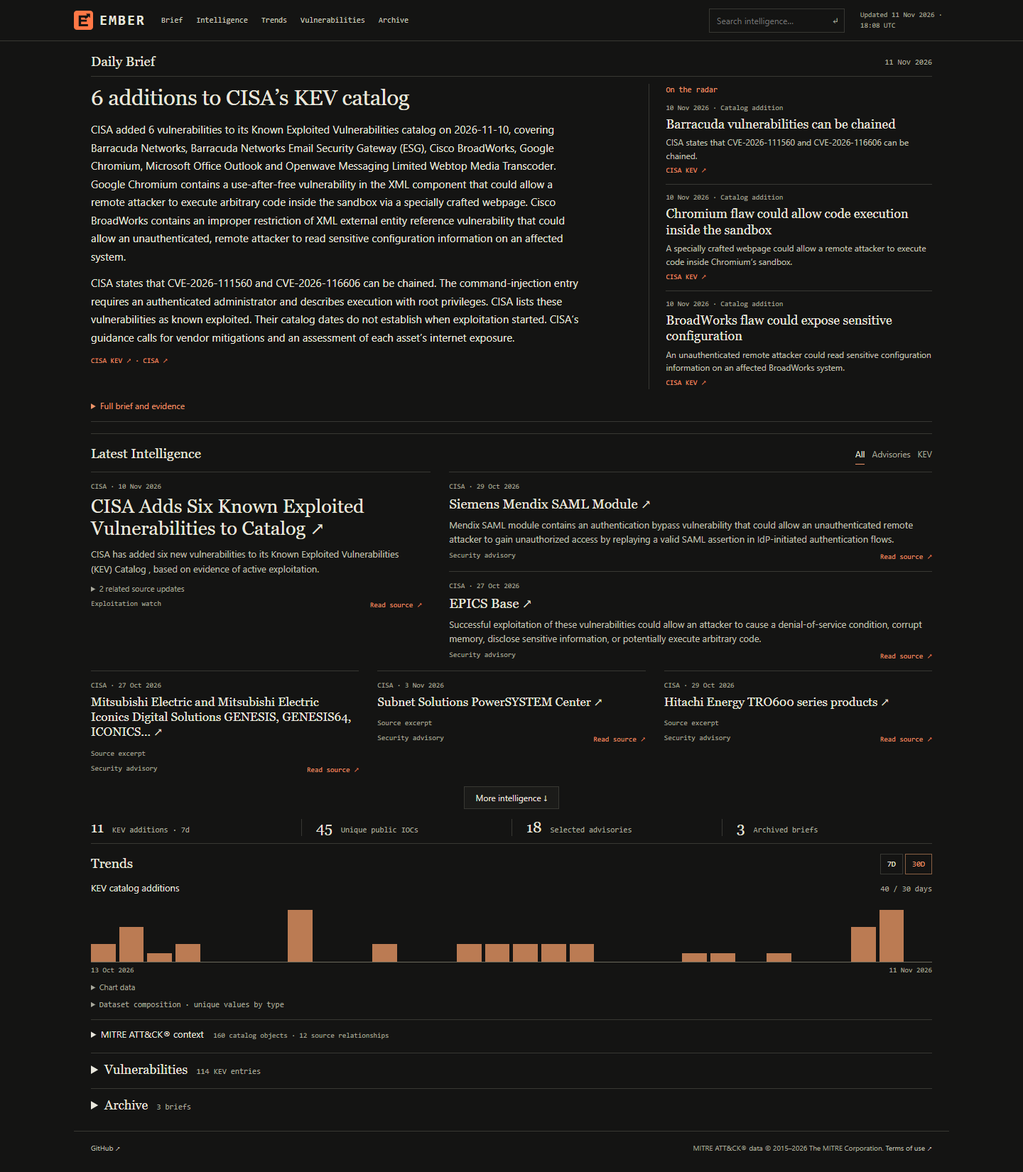
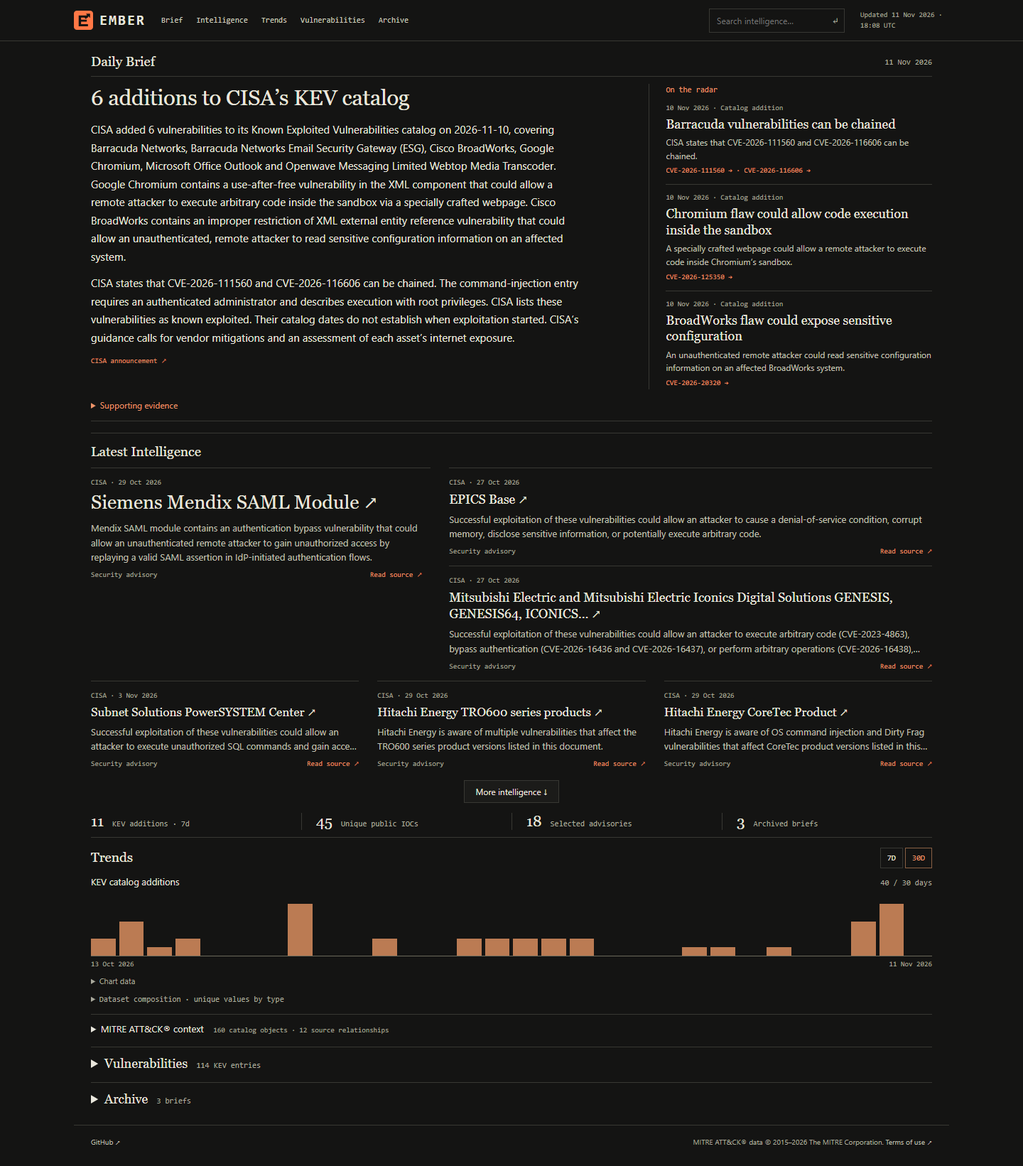
Simplify supporting evidence, reader links, and homepage story selection

diff --git a/website/app.js b/website/app.js
@@ -1,4 +1,4 @@
-import {metrics, dailyKev, kindCounts, matches, groupStories, briefDigest, editorialStories} from './analytics.js';
+import {metrics, dailyKev, kindCounts, matches, groupStories, briefDigest, editionEvidence, evidenceGroups, readerTarget, isRawSource, additionalStories, usefulExcerpt} from './analytics.js';
 
 const main = document.querySelector('main');
 const dialog = document.querySelector('dialog');
@@ -11,11 +11,11 @@ const time = value => value ? `${date(value)} · ${new Date(value).toLocaleTimeS
 const num = value => Number(value).toLocaleString('en-US');
 const shortHeadline = title => title.length>105?title.slice(0,102).replace(/\s+\S*$/,'')+'…':title;
 const link = (url,text,cls='') => {
-  try {const p=new URL(url);if(p.protocol!=='https:'||!['www.cisa.gov','www.circl.lu','attack.mitre.org'].includes(p.hostname)||p.username||p.password)return e(text);}
+  try {const p=new URL(url);if(p.protocol!=='https:'||!['www.cisa.gov','www.circl.lu','attack.mitre.org'].includes(p.hostname)||p.username||p.password||!['','443'].includes(p.port))return e(text);}
   catch {return e(text);}
   return `<a class="${e(cls)}" href="${e(url)}" target="_blank" rel="noopener noreferrer">${e(text)} ↗</a>`;
 };
-let data, period=30, newsFilter='all', newsLimit=6, cveQuery='', cvePage=0, catalogQuery='', catalogType='all', catalogLimit=12;
+let data, period=30, newsLimit=6, cveQuery='', cvePage=0, catalogQuery='', catalogType='all', catalogLimit=12;
 const empty = text => `<p class="empty">${e(text)}</p>`;
 
 function warnings() {
@@ -30,8 +30,7 @@ const freshness = {'catalog-added':'Catalog addition','newly-published':'New pub
 const prose = clauses => (clauses||[]).map(c=>c.text).join(' ');
 function topicMarkup(topic,technical=false) {
   const rows=topic.records;
-  const sources=[...new Map(rows.map(r=>[r.source_url,r])).values()];
-  return `<article class="${technical?'report-topic':'finding'}"><div class="source-line">${e(freshness[topic.freshness])}</div><h3>${e(topic.headline)}</h3><p>${e(prose(topic.summary)||rows[0]?.excerpt)}</p>${topic.why_it_matters?`<p class="significance">${e(topic.why_it_matters.text)}</p>`:''}<div class="topic-sources">${sources.map(r=>link(r.source_url,names[r.source])).join(' · ')}</div>${technical?`<details class="topic-evidence"><summary>Technical evidence · ${rows.length}</summary>${rows.map(row=>`<article class="evidence"><div class="indicator">${e(row.kind)} · ${e(row.value)}</div><p>${e(row.excerpt)}</p><dl><dt>${row.source==='cisa-kev'?'Catalog added':'Source published'}</dt><dd>${e(time(row.published_at))}</dd>${row.modified_at?`<dt>Source modified</dt><dd>${e(time(row.modified_at))}</dd>`:''}${row.first_seen?`<dt>First collected / last seen</dt><dd>${e(time(row.first_seen))} / ${e(time(row.last_seen))}</dd>`:''}</dl>${link(row.source_url,'Original source','link')}</article>`).join('')}</details>`:''}</article>`;
+  return `<article class="${technical?'report-topic':'finding'}"><div class="source-line">${e(freshness[topic.freshness])}</div><h3>${e(topic.headline)}</h3><p>${e(prose(topic.summary)||rows[0]?.excerpt)}</p>${topic.why_it_matters?`<p class="significance">${e(topic.why_it_matters.text)}</p>`:''}<div class="topic-sources">${readerLinks(rows)}</div>${technical?`<details class="topic-evidence"><summary>Technical evidence · ${rows.length}</summary>${rows.map(row=>`<article class="evidence"><div class="indicator">${e(row.kind)} · ${e(row.value)}</div><p>${e(row.excerpt)}</p><dl><dt>${row.source==='cisa-kev'?'Catalog added':'Source published'}</dt><dd>${e(time(row.published_at))}</dd>${row.modified_at?`<dt>Source modified</dt><dd>${e(time(row.modified_at))}</dd>`:''}${row.first_seen?`<dt>First collected / last seen</dt><dd>${e(time(row.first_seen))} / ${e(time(row.last_seen))}</dd>`:''}</dl>${sourceLink(row)}</article>`).join('')}</details>`:''}</article>`;
 }
 function reportMarkup(report) {
   const topics=briefDigest(report);
@@ -40,12 +39,10 @@ function reportMarkup(report) {
   const defaultAction='Review indicator against local telemetry before taking action.';
   const actions=new Map();
   for(const topic of topics)for(const row of topic.records){if(row.action&&row.action!==defaultAction){if(!actions.has(row.action))actions.set(row.action,new Map());actions.get(row.action).set(row.source_url,row);}}
-  return `<div class="metadata">${e(time(report.generated_at))} · ${report.evidence_count} source observations · ${report.narrative?.mode==='ollama-grounded'?'Ollama fact-cited composition':'Source-grounded fallback'}</div>${report.narrative?`<p class="report-overview">${e(prose(report.narrative.plan.overview))}</p>`:''}${topics.map(t=>topicMarkup(t,true)).join('')}${withheld.length?`<details class="topic-evidence"><summary>Source metadata requires review · ${withheld.length}</summary>${withheld.map(row=>`<article class="evidence"><div class="indicator">${e(row.kind)} · ${e(row.value)}</div>${link(row.source_url,'Original source','link')}</article>`).join('')}</details>`:''}${actions.size?`<div class="source-actions"><h3>Source defensive considerations</h3>${[...actions].map(([action,sources])=>`<p>${e(action)} <span class="topic-sources">${[...sources.values()].map(r=>link(r.source_url,names[r.source])).join(' · ')}</span></p>`).join('')}</div>`:''}`;
+  return `<div class="metadata">${e(time(report.generated_at))} · ${report.evidence_count} source observations · ${report.narrative?.mode==='ollama-grounded'?'Ollama fact-cited composition':'Source-grounded fallback'}</div>${report.narrative?`<p class="report-overview">${e(prose(report.narrative.plan.overview))}</p>`:''}${topics.map(t=>topicMarkup(t,true)).join('')}${withheld.length?`<details class="topic-evidence"><summary>Source metadata requires review · ${withheld.length}</summary>${withheld.map(row=>`<article class="evidence"><div class="indicator">${e(row.kind)} · ${e(row.value)}</div>${sourceLink(row)}</article>`).join('')}</details>`:''}${actions.size?`<div class="source-actions"><h3>Source defensive considerations</h3>${[...actions].map(([action,sources])=>`<p>${e(action)} <span class="topic-sources">${[...sources.values()].map(r=>sourceLink(r)).join(' · ')}</span></p>`).join('')}</div>`:''}`;
 }
 
-function editionRows(edition) {
-  return [...edition.input.records,...edition.input.news,...edition.input.updates].filter((row,index,rows)=>rows.findIndex(r=>r.id===row.id)===index);
-}
+const editionRows = editionEvidence;
 function editorialTopics(edition) {
   const rows=editionRows(edition);
   return edition.topics.map(topic=>({...topic,records:rows.filter(r=>topic.evidence_ids.includes(r.id)),summary:edition.plan.topics.find(t=>t.topic_id===topic.id)?.summary.text||''}));
@@ -53,15 +50,43 @@ function editorialTopics(edition) {
 function editionMarkup(edition) {
   const topics=editorialTopics(edition);
   const actions=[...new Set(topics.flatMap(t=>t.records.map(r=>r.action)).filter(Boolean))];
-  return `<div class="metadata">${e(time(edition.generated_at))} · ${edition.mode==='ollama-source-grounded'?'Ollama source-grounded composition':'Source-grounded fallback'}</div>${edition.plan.overview.map(p=>`<p class="report-overview">${e(prose(p))}</p>`).join('')}${topics.map(topic=>`<article class="report-topic"><div class="source-line">${e(freshness[topic.freshness])} · ${e(date(topic.published_at))}</div><h3>${e(topic.headline)}</h3><p>${e(topic.summary)}</p><details class="topic-evidence"><summary>Supporting evidence · ${topic.records.length}</summary>${topic.records.map(row=>`<article class="evidence"><div class="source-line">${e(names[row.source])}</div><h4>${e(row.value||row.title)}</h4><p>${e(row.description||row.excerpt)}</p><dl><dt>${row.source==='cisa-kev'?'Catalog added':'Source published'}</dt><dd>${e(date(row.published_at))}</dd>${row.modified_at?`<dt>Source modified</dt><dd>${e(time(row.modified_at))}</dd>`:''}${row.first_seen?`<dt>First collected / last seen</dt><dd>${e(time(row.first_seen))} / ${e(time(row.last_seen))}</dd>`:''}</dl>${link(row.source_url,'Original source','link')}</article>`).join('')}${(topic.context_ids||[]).map(id=>{const obj=edition.input.context.find(o=>o.id===id);return obj?`<p>${link(obj.url,`${obj.external_id} · ${obj.name}`)}</p>`:''}).join('')}</details></article>`).join('')}${actions.length?`<details class="source-actions"><summary>Source defensive guidance</summary>${actions.map(action=>`<p>${e(action)}</p>`).join('')}</details>`:''}`;
+  return `<div class="metadata">${e(time(edition.generated_at))} · ${edition.mode==='ollama-source-grounded'?'Ollama source-grounded composition':'Source-grounded fallback'}</div>${edition.plan.overview.map(p=>`<p class="report-overview">${e(prose(p))}</p>`).join('')}${topics.map(topic=>`<article class="report-topic"><div class="source-line">${e(freshness[topic.freshness])} · ${e(date(topic.published_at))}</div><h3>${e(topic.headline)}</h3><p>${e(topic.summary)}</p><details class="topic-evidence"><summary>Supporting evidence · ${topic.records.length}</summary>${topic.records.map(row=>`<article class="evidence"><div class="source-line">${e(names[row.source])}</div><h4>${e(row.value||row.title)}</h4>${description(row)?`<p>${e(description(row))}</p>`:''}<dl><dt>${row.source==='cisa-kev'?'Catalog added':'Source published'}</dt><dd>${e(date(row.published_at))}</dd>${row.modified_at?`<dt>Source modified</dt><dd>${e(time(row.modified_at))}</dd>`:''}${row.first_seen?`<dt>First collected / last seen</dt><dd>${e(time(row.first_seen))} / ${e(time(row.last_seen))}</dd>`:''}</dl>${sourceLink(row)}</article>`).join('')}${(topic.context_ids||[]).map(id=>{const obj=edition.input.context.find(o=>o.id===id);return obj?`<p>${link(obj.url,`${obj.external_id} · ${obj.name}`)}</p>`:''}).join('')}</details></article>`).join('')}${actions.length?`<details class="source-actions"><summary>Source defensive guidance</summary>${actions.map(action=>`<p>${e(action)}</p>`).join('')}</details>`:''}`;
 }
+const description = row => row.description==='Public CIRCL OSINT observation. Source attribution is not independent verification.'?'':row.description||row.excerpt||'';
+const sourceLink = row => link(row.source_url,isRawSource(row.source_url)?'Raw source data':'Original source','link');
+function readerReference(row,text,cls='') {
+  const target=readerTarget(row);
+  return target.kind==='article'?link(target.url,text,cls):`<button class="link ${e(cls)}" data-evidence="${e(row.id)}">${e(text)} →</button>`;
+}
+
+function readerLinks(rows,{lead=false}={}) {
+  const articles=[...new Map(rows.filter(row=>readerTarget(row).kind==='article').map(row=>[row.source_url,row])).values()];
+  if(articles.length)return articles.slice(0,lead?3:2).map(row=>link(row.source_url,articles.length>1?shortHeadline(row.title):row.category==='Exploitation watch'?'CISA announcement':'CISA advisory')).join(' · ');
+  const cves=[...new Map(rows.filter(r=>r.kind==='vulnerability').map(r=>[r.value,r])).values()];
+  if(cves.length&&!lead)return cves.map(row=>`<button class="link" data-evidence="${e(row.id)}">${e(row.value)} →</button>`).join(' · ');
+  const row=rows[0];
+  if(!row)return '';
+  if(lead||rows.length>1)return `<button class="link" data-supporting="${e(row.id)}">Supporting evidence ↓</button>`;
+  return `<button class="link" data-evidence="${e(row.id)}">Details →</button>`;
+}
+function recordEvidence(row,index) {
+  const title=row.kind==='vulnerability'?row.value:row.source==='cisa-advisories'?row.title:`${kinds[row.kind]||row.kind} · ${index+1}`;
+  return `<details class="evidence" data-record="${e(row.id)}"><summary>${e(title)}${row.kind==='vulnerability'?`<span>${e(row.title)}</span>`:''}</summary><div class="record-detail">${row.kind&&row.kind!=='vulnerability'?`<div class="indicator">${e(row.value)}</div>`:''}${description(row)?`<p>${e(description(row))}</p>`:''}${row.action?`<details class="source-actions"><summary>Source defensive guidance</summary><p>${e(row.action)}</p></details>`:''}<dl><dt>${row.source==='cisa-kev'?'Catalog added':'Source published'}</dt><dd>${e(date(row.published_at))}</dd>${row.modified_at?`<dt>Source modified</dt><dd>${e(time(row.modified_at))}</dd>`:''}${row.content_changed_at?`<dt>Content change recorded</dt><dd>${e(time(row.content_changed_at))}</dd>`:''}${row.first_seen?`<dt>First collected / last seen</dt><dd>${e(time(row.first_seen))} / ${e(time(row.last_seen))}</dd>`:''}</dl>${sourceLink(row)}</div></details>`;
+}
+function supportingEvidence(source) {
+  const rows=source.input?editionRows(source):(source.observations||source.items);
+  const topics=source.input?source.topics:briefDigest(source);
+  const groups=evidenceGroups(rows,topics);
+  if(!groups.length)return '';
+  return `<details class="supporting-evidence"><summary>Supporting evidence</summary><div class="evidence-groups">${groups.map(group=>`<details class="evidence-group" data-group="${e(group.key)}"><summary>${e(group.label)} <small>${group.records.length} ${e(group.unit)}${group.records.length===1?'':'s'}</small></summary><div class="group-records">${group.records.map(recordEvidence).join('')}${group.context_ids.map(id=>{const node=source.input?.context.find(r=>r.id===id);return node?`<p class="topic-sources">${link(node.url,`${node.external_id} · ${node.name}`)}</p>`:''}).join('')}</div></details>`).join('')}</div></details>`;
+}
+
 const archives = () => [...(data.editions||[]),...data.reports].sort((a,b)=>b.generated_at.localeCompare(a.generated_at));
 function opening(edition,report) {
-  if(!edition){const digest=briefDigest(report);return `<div class="section-head"><h1>Daily Brief</h1><time>${e(date(report?.generated_at))}</time></div>${report?.narrative?`<p class="brief-overview">${e(prose(report.narrative.plan.overview))}</p>`:''}${digest.length?`<div class="brief-findings">${digest.map(row=>topicMarkup(row)).join('')}</div>`:empty('No accepted public edition is available yet.')}${report?`<details class="full-brief"><summary>Full brief and evidence</summary><div class="report-body">${reportMarkup(report)}</div></details>`:''}`;}
+  if(!edition){const digest=briefDigest(report);return `<div class="section-head"><h1>Daily Brief</h1><time>${e(date(report?.generated_at))}</time></div>${report?.narrative?`<p class="brief-overview">${e(prose(report.narrative.plan.overview))}</p>`:''}${digest.length?`<div class="brief-findings">${digest.map(row=>topicMarkup(row)).join('')}</div>`:empty('No accepted public edition is available yet.')}${report?supportingEvidence(report):''}`;}
   const topics=editorialTopics(edition);
   const radar=topics.length>1?topics.slice(1,4):topics;
-  const sources=[...new Map(topics.flatMap(t=>t.records).map(r=>[r.source_url,r])).values()];
-  return `<div class="section-head"><h2>Daily Brief</h2><time>${e(date(edition.generated_at))}</time></div><div class="edition-grid"><div class="editorial-lead"><h1>${e(topics[0]?.headline||'No new source-dated developments')}</h1>${edition.plan.overview.map(p=>`<p class="brief-overview">${e(prose(p))}</p>`).join('')}<div class="topic-sources">${sources.slice(0,3).map(r=>link(r.source_url,names[r.source])).join(' · ')}</div></div>${radar.length?`<aside class="radar" aria-labelledby="radar-title"><h2 id="radar-title">On the radar</h2>${radar.map(topic=>`<article><div class="source-line">${e(date(topic.published_at))} · ${e(freshness[topic.freshness])}</div><h3>${e(topic.headline)}</h3><p>${e(topic.summary)}</p><div class="topic-sources">${[...new Map(topic.records.map(r=>[r.source_url,r])).values()].map(r=>link(r.source_url,names[r.source])).join(' · ')}</div></article>`).join('')}</aside>`:''}</div><details class="full-brief"><summary>Full brief and evidence</summary><div class="report-body">${editionMarkup(edition)}</div></details>`;
+  return `<div class="section-head"><h2>Daily Brief</h2><time>${e(date(edition.generated_at))}</time></div><div class="edition-grid"><div class="editorial-lead"><h1>${e(topics[0]?.headline||'No new source-dated developments')}</h1>${edition.plan.overview.map(p=>`<p class="brief-overview">${e(prose(p))}</p>`).join('')}<div class="topic-sources">${readerLinks(topics.flatMap(t=>t.records),{lead:true})}</div></div>${radar.length?`<aside class="radar" aria-labelledby="radar-title"><h2 id="radar-title">On the radar</h2>${radar.map(topic=>`<article><div class="source-line">${e(date(topic.published_at))} · ${e(freshness[topic.freshness])}</div><h3>${e(topic.headline)}</h3><p>${e(topic.summary)}</p><div class="topic-sources">${readerLinks(topic.records)}</div></article>`).join('')}</aside>`:''}</div>${supportingEvidence(edition)}`;
 }
 
 function render() {
@@ -72,7 +97,7 @@ function render() {
   const week=dailyKev(data.records,7,new Date().toISOString()).reduce((sum,row)=>sum+row.count,0);
   main.innerHTML=`${warnings()}<section id="search-results" class="search-results" hidden></section>
     <section class="brief" id="brief">${opening(edition,report)}</section>
-    <section id="intelligence"><div class="section-head"><h2>Latest Intelligence</h2><div class="news-filters" aria-label="News category">${[['all','All'],['Security advisory','Advisories'],['Exploitation watch','KEV']].map(([v,l])=>`<button data-news-filter="${v}" aria-pressed="${v===newsFilter}">${l}</button>`).join('')}</div></div><div id="news-content"></div></section>
+    <section id="intelligence"><div class="section-head"><h2>Latest Intelligence</h2></div><div id="news-content"></div></section>
     <section class="metrics" aria-label="Collection statistics">${[[week,'KEV additions · 7d'],[m.iocs,'Unique public IOCs'],[m.advisories,'Selected advisories'],[history.length,'Archived briefs']].map(([count,label])=>`<div class="metric"><strong>${num(count)}</strong><span>${label}</span></div>`).join('')}</section>
     <section id="trends"><div class="section-head"><h2>Trends</h2><div class="segmented" aria-label="Chart period"><button data-period="7" aria-pressed="${period===7}">7D</button><button data-period="30" aria-pressed="${period===30}">30D</button></div></div>
       <div class="trend-grid"><div><div class="chart-head"><h3>KEV catalog additions</h3><span id="chart-total"></span></div><div id="trend"></div></div>
@@ -103,10 +128,11 @@ function typeChart() {
 }
 
 function news() {
-  const stories=editorialStories(data.news,data.exported_at||new Date().toISOString(),data.editions?.[0]?.topics.flatMap(t=>t.evidence_ids)||[]).filter(r=>newsFilter==='all'||r.category===newsFilter);
+  const stories=additionalStories(data.news,data.exported_at||new Date().toISOString(),data.editions?.[0]);
   document.querySelector('#news-content').innerHTML=stories.length?`<div class="news-grid">${stories.slice(0,newsLimit).map((row,index)=>{
-    return `<article class="story ${index===0?'story-featured':index>=3?'story-brief':'story-secondary'}"><div class="source-line">CISA · ${e(date(row.published_at))}</div><h3 title="${e(row.title)}">${link(row.source_url,shortHeadline(row.title))}</h3><details class="story-excerpt"><summary title="Expand or collapse full source excerpt"><span class="story-preview">${e(row.excerpt)}</span><span class="excerpt-close">Collapse excerpt</span></summary><p>${e(row.excerpt)}</p></details>${row.related.length?`<details class="related-updates"><summary>${row.related.length} related source updates</summary><ul>${row.related.map(r=>`<li>${link(r.source_url,date(r.published_at))} — ${e(r.title)}</li>`).join('')}</ul></details>`:''}<div class="story-meta"><span>${e(row.category)}</span>${link(row.source_url,'Read source')}</div></article>`;
-  }).join('')}</div>${stories.length>newsLimit?'<button class="more" data-more-news>More intelligence ↓</button>':''}`:empty('No recent source reports match this filter.');
+    const excerpt=usefulExcerpt(row);
+    return `<article data-story-id="${e(row.id)}" class="story ${index===0?'story-featured':index>=3?'story-brief':'story-secondary'}"><div class="source-line">CISA · ${e(date(row.published_at))}</div><h3 title="${e(row.title)}">${readerReference(row,shortHeadline(row.title))}</h3>${excerpt?`<details class="story-excerpt"><summary title="Expand or collapse full source excerpt"><span class="story-preview">${e(excerpt)}</span><span class="excerpt-close">Collapse excerpt</span></summary><p>${e(excerpt)}</p></details>`:''}${row.related.length?`<details class="related-updates"><summary>${row.related.length} related source updates</summary><ul>${row.related.map(r=>`<li>${readerReference(r,date(r.published_at))} — ${e(r.title)}</li>`).join('')}</ul></details>`:''}<div class="story-meta"><span>${e(row.category)}</span>${readerReference(row,readerTarget(row).kind==='article'?'Read source':'View details')}</div></article>`;
+  }).join('')}</div>${stories.length>newsLimit?'<button class="more" data-more-news>More intelligence ↓</button>':''}`:empty('No additional source reports are available for this edition.');
 }
 
 function cveRows() {
@@ -121,9 +147,10 @@ function catalog() {
   document.querySelector('#catalog-results').innerHTML=rows.length?`<div class="catalog-grid">${rows.slice(0,catalogLimit).map(row=>`<button class="catalog-item" data-stix="${e(row.id)}"><span>${e(row.external_id)} · ${e(types[row.type]||row.type)}</span><strong>${e(row.name)}</strong></button>`).join('')}</div>${rows.length>catalogLimit?'<button class="more" data-more-catalog>More catalog context ↓</button>':''}`:empty('No matching catalog objects.');
 }
 
-function evidence(id) {
-  const row=data.records.find(r=>r.id===id)||[...data.reports.flatMap(r=>r.observations||r.items),...(data.editions||[]).flatMap(editionRows)].find(r=>r.id===id);if(!row)return;
-  document.querySelector('#dialog-content').innerHTML=`<div class="source-line">${e(names[row.source])}</div><h2 id="dialog-title">${e(row.title)}</h2><div class="indicator">${e(row.value)}</div><p>${e(row.description||row.excerpt)}</p><h3>Defensive consideration</h3><p>${e(row.action)}</p><dl><dt>${row.source==='cisa-kev'?'Catalog added':'Source published'}</dt><dd>${e(date(row.published_at))}</dd>${row.first_seen?`<dt>First collected</dt><dd>${e(time(row.first_seen))}</dd>`:''}</dl>${link(row.source_url,'Original source','link')}`;
+function evidence(id,scope=null) {
+  const scoped=scope?(scope.input?editionRows(scope):scope.observations||scope.items).find(r=>r.id===id):null;
+  const row=scoped||data.records.find(r=>r.id===id)||data.news.find(r=>r.id===id)||[...data.reports.flatMap(r=>r.observations||r.items),...(data.editions||[]).flatMap(editionRows)].find(r=>r.id===id);if(!row)return;
+  document.querySelector('#dialog-content').innerHTML=`<div class="source-line">${e(names[row.source])}</div><h2 id="dialog-title">${e(row.title)}</h2><div class="indicator">${e(row.value)}</div>${description(row)?`<p>${e(description(row))}</p>`:''}${row.action?`<h3>Defensive consideration</h3><p>${e(row.action)}</p>`:''}<dl><dt>${row.source==='cisa-kev'?'Catalog added':'Source published'}</dt><dd>${e(date(row.published_at))}</dd>${row.first_seen?`<dt>First collected</dt><dd>${e(time(row.first_seen))}</dd>`:''}</dl>${sourceLink(row)}`;
   if(!dialog.open)dialog.showModal();else document.querySelector('.dialog-close').focus();
 }
 
@@ -144,7 +171,7 @@ function search() {
   if(!query){region.hidden=true;return;}
   const hits=[...groupStories(data.news),...data.records,...data.stix.objects].filter(row=>matches(row,query));
   region.hidden=false;
-  region.innerHTML=`<div class="section-head"><h2>${hits.length} search results</h2><button class="link" data-clear-search>Clear search</button></div>${hits.length?`<ul>${hits.slice(0,40).map(row=>`<li><small>${e(row.type?'MITRE ATT&CK®':names[row.source])} ${e(row.external_id||row.value||date(row.published_at))}</small>${row.type?`<button class="link" data-stix="${e(row.id)}">${e(row.name)} ↗</button>`:row.kind?`<button class="link" data-evidence="${e(row.id)}">${e(row.title)} ↗</button>`:link(row.source_url,row.title)}</li>`).join('')}</ul>${hits.length>40?'<p class="source-line">First 40 results. Refine your search to narrow the list.</p>':''}`:empty('No matching intelligence.')}`;
+  region.innerHTML=`<div class="section-head"><h2>${hits.length} search results</h2><button class="link" data-clear-search>Clear search</button></div>${hits.length?`<ul>${hits.slice(0,40).map(row=>`<li><small>${e(row.type?'MITRE ATT&CK®':names[row.source])} ${e(row.external_id||row.value||date(row.published_at))}</small>${row.type?`<button class="link" data-stix="${e(row.id)}">${e(row.name)} ↗</button>`:row.kind?`<button class="link" data-evidence="${e(row.id)}">${e(row.title)} ↗</button>`:readerReference(row,row.title)}</li>`).join('')}</ul>${hits.length>40?'<p class="source-line">First 40 results. Refine your search to narrow the list.</p>':''}`:empty('No matching intelligence.')}`;
 }
 
 function anchor() {
@@ -160,10 +187,11 @@ function anchor() {
 
 function click(event) {
   const button=event.target.closest('button');if(!button||!data)return;
-  if(button.dataset.evidence)evidence(button.dataset.evidence);
+  if(button.dataset.evidence){const scope=button.closest('#archived-report')?archives().find(r=>r.id===document.querySelector('#archive-select').value):button.closest('#brief')?data.editions?.[0]||data.reports[0]:null;evidence(button.dataset.evidence,scope);}
+  if(button.hasAttribute('data-supporting')){const supporting=document.querySelector('#brief > .supporting-evidence');if(supporting){supporting.open=true;const record=[...supporting.querySelectorAll('[data-record]')].find(r=>r.dataset.record===button.dataset.supporting);const target=record?.closest('.evidence-group')||supporting;if(target!==supporting)target.open=true;target.querySelector('summary').focus();target.scrollIntoView({block:'nearest'});}}
   if(button.dataset.stix)stixDetail(button.dataset.stix);
   if(button.dataset.period){period=Number(button.dataset.period);document.querySelectorAll('[data-period]').forEach(b=>b.setAttribute('aria-pressed',Number(b.dataset.period)===period));trend();}
-  if(button.dataset.newsFilter){newsFilter=button.dataset.newsFilter;newsLimit=6;document.querySelectorAll('[data-news-filter]').forEach(b=>b.setAttribute('aria-pressed',b.dataset.newsFilter===newsFilter));news();}
+
   if(button.hasAttribute('data-more-news')){const before=newsLimit;newsLimit+=6;news();document.querySelectorAll('.story')[before]?.querySelector('a')?.focus();}
   if(button.hasAttribute('data-more-catalog')){const before=catalogLimit;catalogLimit+=12;catalog();document.querySelectorAll('.catalog-item')[before]?.focus();}
   if(button.dataset.page){cvePage+=Number(button.dataset.page);cveRows();document.querySelector('[data-page]:not(:disabled)')?.focus();}

diff --git a/website/analytics.js b/website/analytics.js
@@ -73,6 +73,77 @@ export function editorialStories(news, asOf, selectedIds=[]) {
   });
 }
 
+// Reader presentation only. Original URLs, evidence and editorial plans stay intact.
+export function editionEvidence(edition) {
+  const rows=new Map();
+  for(const row of [...edition.input.records,...edition.input.news])rows.set(row.id,{...row});
+  for(const update of edition.input.updates){
+    const original=rows.get(update.id);
+    rows.set(update.id,{...original,...update,...(original?.description?{description:original.description}:{})});
+  }
+  return [...rows.values()];
+}
+
+export function isRawSource(url) {
+  try{return /\.(?:json|csv|xml)$/i.test(new URL(url).pathname);}catch{return true;}
+}
+
+export function readerTarget(row) {
+  try {
+    const url=new URL(row.source_url);
+    if(row.source==='cisa-advisories'&&url.protocol==='https:'&&url.hostname==='www.cisa.gov'&&url.pathname.startsWith('/news-events/')&&!url.username&&!url.password&&!url.search&&!url.hash&&['','443'].includes(url.port)&&!isRawSource(url.href))return {kind:'article',url:row.source_url,id:row.id};
+  }catch{}
+  return {kind:'detail',id:row.id};
+}
+
+export function evidenceGroups(rows,topics=[]) {
+  const lookup=new Map(rows.map(r=>[r.id,r]));const seen=new Set(),contexts=new Set(),groups=[];
+  const append=(label,members)=>{
+    if(!members.length)return;
+    const unit=members.every(r=>r.kind==='vulnerability')?'CVE':members.every(r=>r.source==='cisa-advisories')?'source report':members.every(r=>r.kind&&r.kind!=='vulnerability')?'indicator':'record';
+    groups.push({key:`evidence-${members[0].id}`,label,unit,records:members,context_ids:[]});
+    members.forEach(r=>seen.add(r.id));
+  };
+  for(const topic of topics){
+    const ids=topic.evidence_ids||topic.supporting_evidence_ids||topic.records?.map(r=>r.id)||[];
+    const members=[...new Set(ids)].map(id=>lookup.get(id)).filter(row=>row&&!seen.has(row.id));
+    if(topic.kind==='catalog'){
+      append('CISA KEV additions',members.filter(r=>r.kind==='vulnerability'));
+      const articles=members.filter(r=>r.source==='cisa-advisories');
+      append(articles.length===1?'CISA announcement':'CISA announcements',articles);
+      append(topic.headline,members.filter(r=>!seen.has(r.id)));
+    }else append(topic.headline||'Source evidence',members);
+    const owner=groups.find(g=>g.records.some(r=>ids.includes(r.id)));
+    if(owner)for(const id of topic.context_ids||[]){if(!contexts.has(id)){owner.context_ids.push(id);contexts.add(id);}}
+  }
+  append('Other source records',[...lookup.values()].filter(r=>!seen.has(r.id)));
+  return groups;
+}
+
+export function usefulExcerpt(row) {
+  const text=(row.excerpt||'').trim();
+  if(!text||/^(?:source excerpt|no excerpt(?: available)?|excerpt unavailable|not available|n\/a)[.!]?$/i.test(text)||text.toLowerCase()===row.title?.trim().toLowerCase())return '';
+  return text;
+}
+
+export function additionalStories(news,asOf,edition,category='all') {
+  const categoryRows=news.filter(row=>category==='all'||row.category===category);
+  if(!edition)return editorialStories(categoryRows,asOf);
+  const ids=new Set(edition.topics.flatMap(t=>t.evidence_ids));
+  const featured=editionEvidence(edition).filter(r=>ids.has(r.id));
+  const articles=featured.filter(r=>r.source==='cisa-advisories');
+  const articleIds=new Set(articles.map(r=>r.id)),urls=new Set(articles.map(r=>r.source_url).filter(Boolean));
+  const cves=new Set(featured.filter(r=>r.kind==='vulnerability').map(r=>r.value.toUpperCase()));
+  const catalog=edition.topics.some(t=>t.kind==='catalog');
+  // Filter originals before grouping so a featured bulletin cannot hide distinct
+  // older reports inside its related-updates list. CVE overlap alone never removes a report.
+  const distinct=categoryRows.filter(r=>!articleIds.has(r.id)&&!urls.has(r.source_url));
+  const end=Date.parse(asOf),start=new Date(end);start.setUTCDate(start.getUTCDate()-1);start.setUTCHours(0,0,0,0);
+  const current=row=>Date.parse(row.published_at)>=start.getTime()&&Date.parse(row.published_at)<=end;
+  const related=row=>(catalog&&row.category==='Exploitation watch')||(row.title+' '+row.excerpt).match(/CVE-\d{4}-\d{4,7}/gi)?.some(id=>cves.has(id.toUpperCase()));
+  return editorialStories(distinct,asOf).sort((a,b)=>Number(current(b))-Number(current(a))||Number(Boolean(related(a)))-Number(Boolean(related(b))));
+}
+
 export function briefDigest(report) {
   if (!report || report.mode === 'quiet-day') return [];
   const rows=report.observations||report.items;

diff --git a/website/styles.css b/website/styles.css
@@ -279,9 +279,6 @@ dialog dd { margin: 0; overflow-wrap: anywhere; }
 .story-secondary .story-preview { -webkit-line-clamp: 2; }
 .story-brief { grid-column: span 4; }
 .story-brief h3 { font-size: 17px; }
-.story-brief .story-preview { display: none; }
-.story-brief .story-excerpt>summary::before { content: 'Source excerpt'; font: 10px var(--mono); color: var(--muted); }
-.story-brief .story-excerpt[open]>summary::before { content: ''; }
 .story .story-meta { margin-top: 7px; }
 .trend-grid { display: block; }
 .bar-chart { height: 82px; }
@@ -310,4 +307,25 @@ dialog dd { margin: 0; overflow-wrap: anywhere; }
   .story-featured h3 { font-size: 24px; }
   .story-secondary h3 { font-size: 19px; }
   .story-brief h3 { font-size: 18px; }
+}
+.supporting-evidence { margin-top: 14px; }
+.supporting-evidence>summary { font: 12px var(--sans); color: var(--orange); }
+.evidence-groups { margin-top: 10px; max-width: 900px; }
+.evidence-group { border-top: 1px solid var(--line); padding: 9px 0; }
+.evidence-group>summary { font: 14px/1.5 var(--serif); }
+.evidence-group>summary small { margin-left: 8px; font: 10px var(--mono); }
+.group-records { margin: 8px 0 0 15px; }
+.group-records>.evidence { padding: 8px 0; }
+.group-records>.evidence>summary { color: var(--orange); font: 11px/1.6 var(--mono); }
+.group-records>.evidence>summary>span { display: block; margin-left: 15px; font: 12px/1.5 var(--sans); color: var(--muted); }
+.record-detail { padding: 6px 0 2px 15px; }
+.record-detail p { margin: 5px 0 8px; }
+.record-detail .source-actions { padding-top: 8px; margin-top: 8px; }
+.story-brief .story-preview { -webkit-line-clamp: 2; }
+.story-secondary h3 { font-size: 18px; }
+.story .story-meta { align-items: baseline; }
+@media(max-width:650px) {
+  .evidence-group>summary small { display: block; margin: 3px 0 0 16px; }
+  .group-records { margin-left: 5px; }
+  .record-detail { padding-left: 10px; }
 }

diff --git a/docs/validation.md b/docs/validation.md
@@ -113,3 +113,10 @@ The revised page uses an asymmetric lead/radar, one featured article, secondary 
 Local validation passed 85 Python tests with optional STIX dependencies and eight Node tests, plus infrastructure validation and empty/demo/live static builds. New cases exercise current advisories without a private batch, same-date catalog stories without merging CVE entities, explicit-chain requirements, historical collection/quiet windows, proven updates versus modification clocks alone, exact-event grouping/conflicts/injection, explicit historical/STIX references, unsupported claims despite valid IDs, Unicode/negation/number attacks on claim matching, partial summary withholding, input-bound caches/history, strict public projections, bounded fallback size and four-source topic coverage, and prepared publication without recollection. Existing backend/STIX/TAXII, checkpoint, synchronization, and failure tests remain intact.
 
 Staged publication now collects once, composes from that fixed sanitized snapshot, and publishes the prepared result. It replaces the redundant private-batch narrative call, retaining exact-excerpt inference and all original reports. At the pre-run check the VM had about 6,197 MiB available memory and 125 GiB free disk. The editorial command checks at least 3,500 MiB available memory and requests model unload. No administrative unit, package, model or service change is required. The full updated systemd sequence awaits its next scheduled activation; source collection, real model output, independent finalization and publication components are tested directly.
+
+
+## Reader evidence and usability refinement — 2026-11-11
+
+The front-page Supporting evidence section contains independently expandable groups and records, with no copied overview or radar summaries. For the current November 10 briefing, six unique CVEs and one CISA announcement appear once, despite their shared editorial topics. The archive retains full reports. Reader links use the original approved human article or an internal detail view; JSON feeds remain unchanged and explicitly labeled Raw source data in technical views. All eighteen CISA article URLs returned HTTP 200 HTML from the VM; the lead URL returned the expected “CISA Adds Six Known Exploited Vulnerabilities to Catalog” page title at its original URL.
+
+The visible category filters and placeholder excerpt labels are removed. Latest Intelligence filters exact featured IDs/URLs before grouping, keeps distinct related CVE reports and older bulletins, and preserves the complete underlying dataset/search/archive. Tests verify these distinctions, unsafe link rejection, evidence counts/deduplication, context/update metadata, empty excerpts, unchanged overview text, independent disclosures, raw-link labels, and reader detail dialogs. All 85 Python tests and eighteen Node tests pass. Chrome checks at 390/768/1440 pass against real and synthetic data, with additional isolated legacy/quiet/placeholder presentation cases and no page/CSP errors or overflow. The built real publication JSON equals the original payload; backend schemas, model output, platform integrations and checkpoints are unchanged.

diff --git a/docs/publication.md b/docs/publication.md
@@ -69,4 +69,6 @@ Export/publish failure returns nonzero to the service journal and retry mechanis
 
 The frontend is one page: an asymmetric narrative lead/radar, featured and secondary editorial stories, compact statistics/trends, understated catalog context, and expandable CVEs/archive. The composition chart is available on expansion and is labeled dataset information, not threat activity. The former source/status page and sidebar were removed; operational details remain here. Global search includes STIX names/IDs. Dialogs show original evidence and resolved catalog relationships. Source strings are HTML-escaped; links require approved HTTPS hosts. The Content Security Policy restricts scripts, images, fonts, and connections to the static origin. Charts include accessible labels and data tables.
 
-Run Python tests, Node calculation tests, the infrastructure validator, synthetic private reporting, and empty/demo builds. Browser acceptance uses real public data and prior validated briefs at widths 390, 768, and 1440: four primary views, no horizontal overflow or browser/CSP errors, metric agreement, chart/category filters, report selection, CVE filtering, search, and dialog Escape handling. Screenshots contain only public data. Browser tooling is a development aid, not a runtime dependency.
+Reader-facing destinations are selected from existing validated CISA article URLs or internal CVE/indicator detail views; URLs are not invented from CVE names or dates. Technical views retain the original source URLs with explicit “Raw source data” labels for JSON/CSV/XML. Homepage evidence groups deduplicate shared records across editorial topics, while the archive retains full reports. Additional stories suppress exact featured article IDs/URLs before grouping; CVE overlap only affects related-story ordering and never alone deletes a report. Category metadata remains in the unchanged public schema without visible homepage filters.
+
+Run Python tests, Node calculation tests, the infrastructure validator, synthetic private reporting, and empty/demo builds. Browser acceptance uses real public data and prior validated briefs at widths 390, 768, and 1440: four primary views, no horizontal overflow or browser/CSP errors, metric agreement, chart controls, report selection, CVE filtering, search, and dialog Escape handling. Screenshots contain only public data. Browser tooling is a development aid, not a runtime dependency.

diff --git a/README.md b/README.md
@@ -119,6 +119,8 @@ The publisher writes one validated JSON file to `intel-data`, never stages the w
 
 The current frontend removes the permanent sidebar, introductory masthead, standalone status view, and separate report/CVE pages. The reading order is Daily Brief → Latest Intelligence → Trends/statistics → Vulnerabilities → Archive. An asymmetric lead and compact “On the radar” column replace equal-sized topic blocks. News uses one featured story, two secondary entries and a compact headline index. Current, editorially selected and explicitly significant source reports rank before old bulletins. Dataset composition is collapsed beneath the smaller KEV trend chart; catalog context, CVEs, and historical editions expand in place. Article previews remain short, with complete excerpts and original sources accessible. The news index uses text rather than unrelated illustrations.
 
+Supporting evidence groups CVEs and source reports without repeating the overview; individual records expand independently. Reader links use approved human-readable articles or local detail views, with original machine-readable feeds clearly labeled as raw source data. Latest Intelligence omits articles already featured by exact evidence ID or source URL while keeping distinct related reports, source categories, search and archives. Category filters and placeholder excerpts are omitted from the homepage.
+
 The November 11, 2026 live TAXII acceptance stored **220 original STIX objects** across bounded/resumed requests. The accepted public projection contained **61 catalog objects and five resolved source relationships**. A real OpenCTI pilot read back catalog entities and relationships; an isolated three-object import repeated with **zero additional writes**. These are bounded acceptance samples, not complete Enterprise ATT&CK coverage.
 
 The public feed snapshot also contained **114 KEV entries, 45 unique public IOCs, eighteen selected advisories, and two accepted briefs**. Those figures are dated evidence, not throughput or comprehensive coverage claims. The existing lab previously verified forty-one observations against MISP/OpenCTI and completed a real systemd-managed reporting run. [Validation evidence](docs/validation.md).
